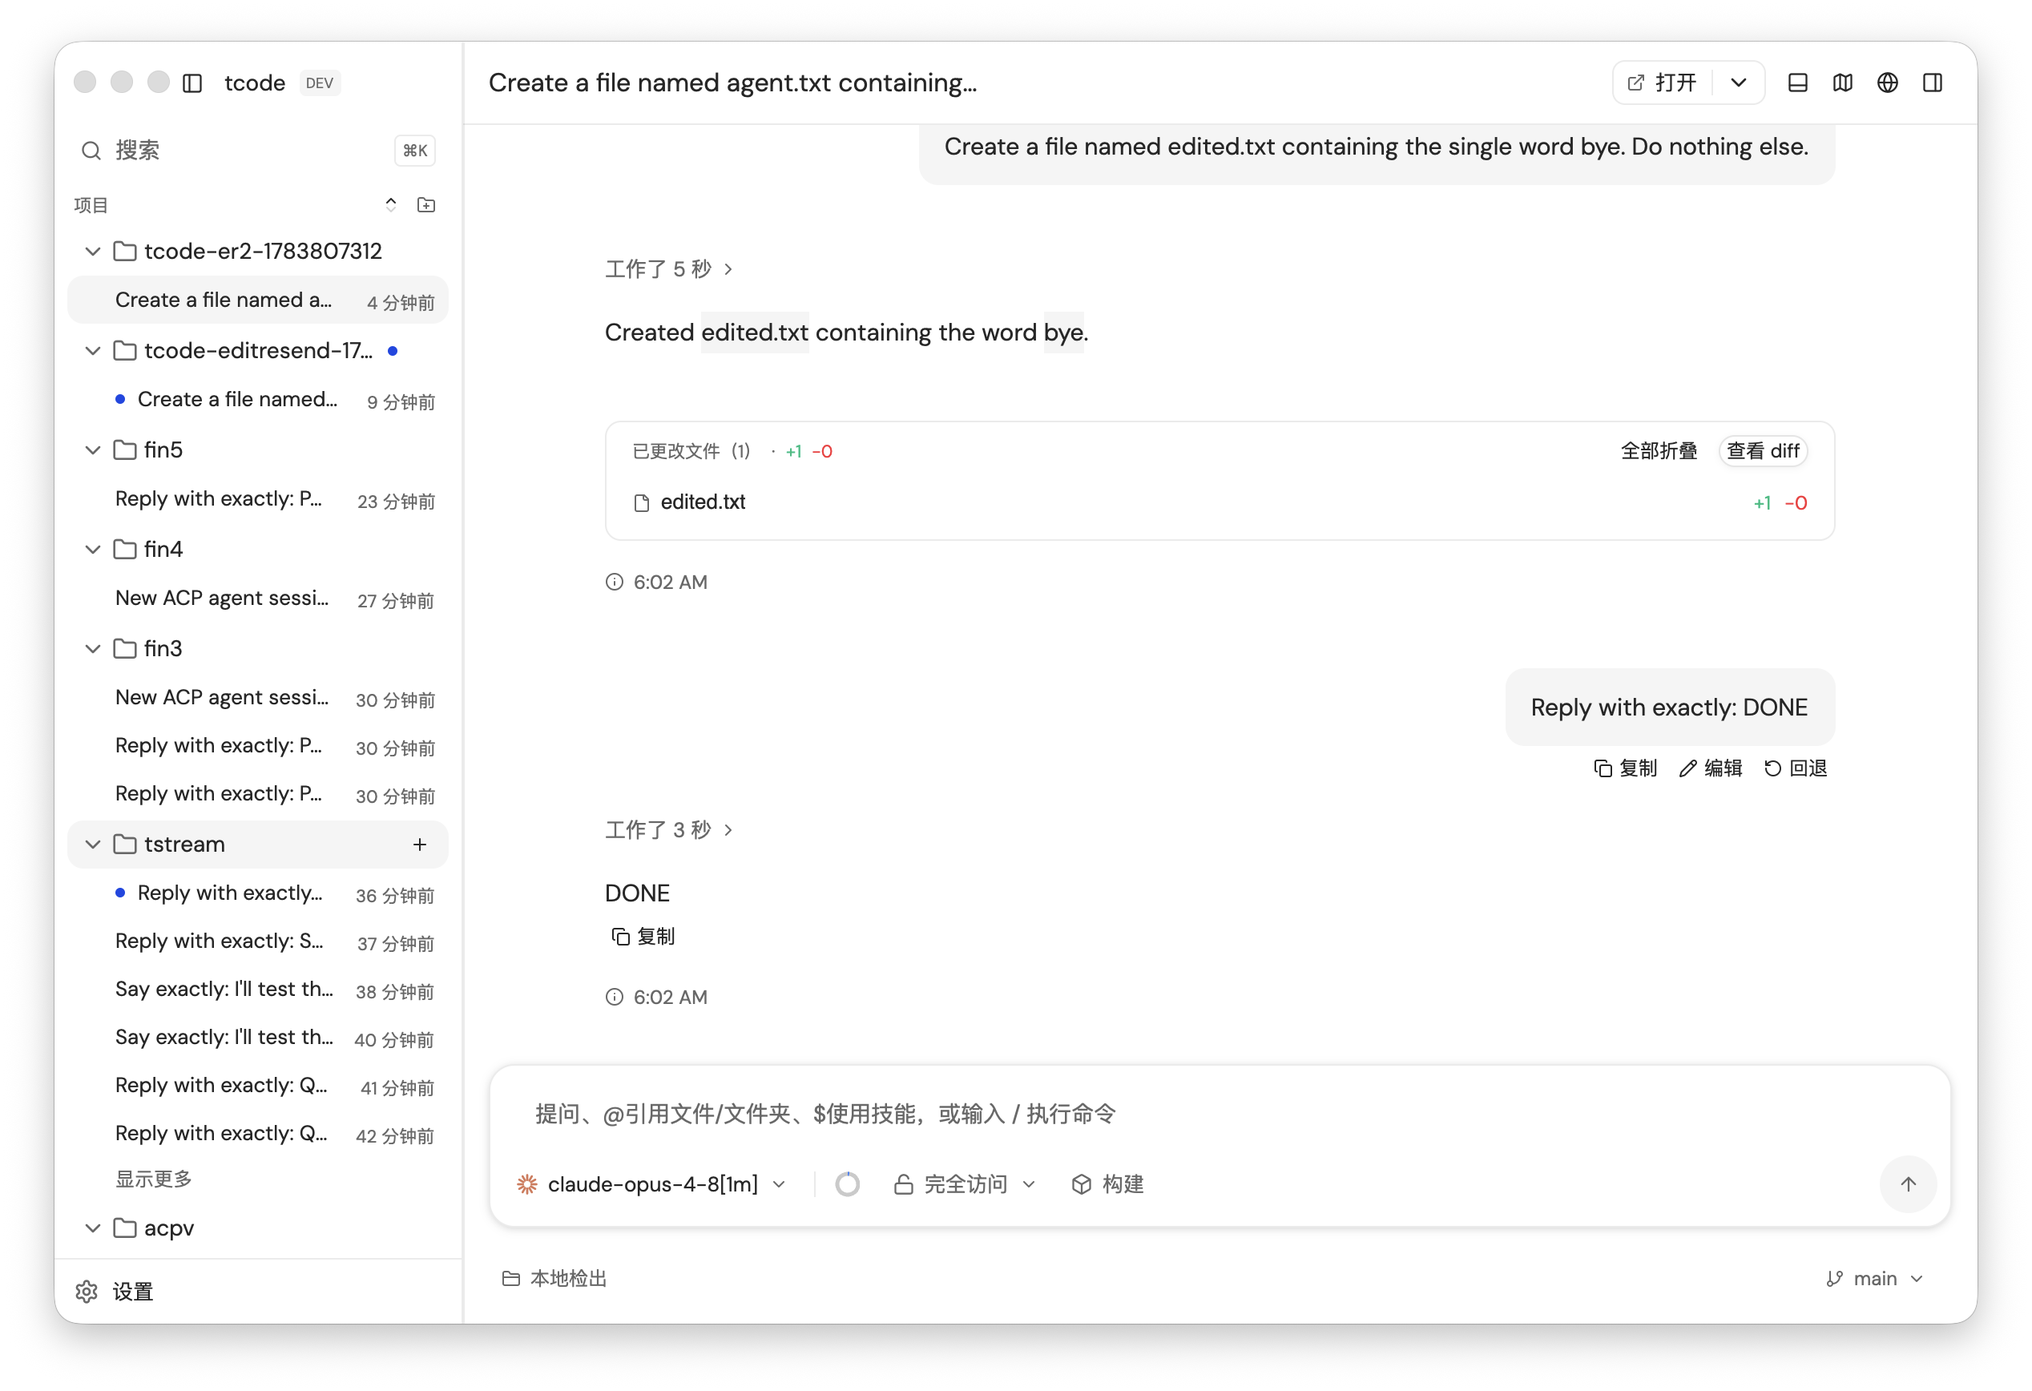
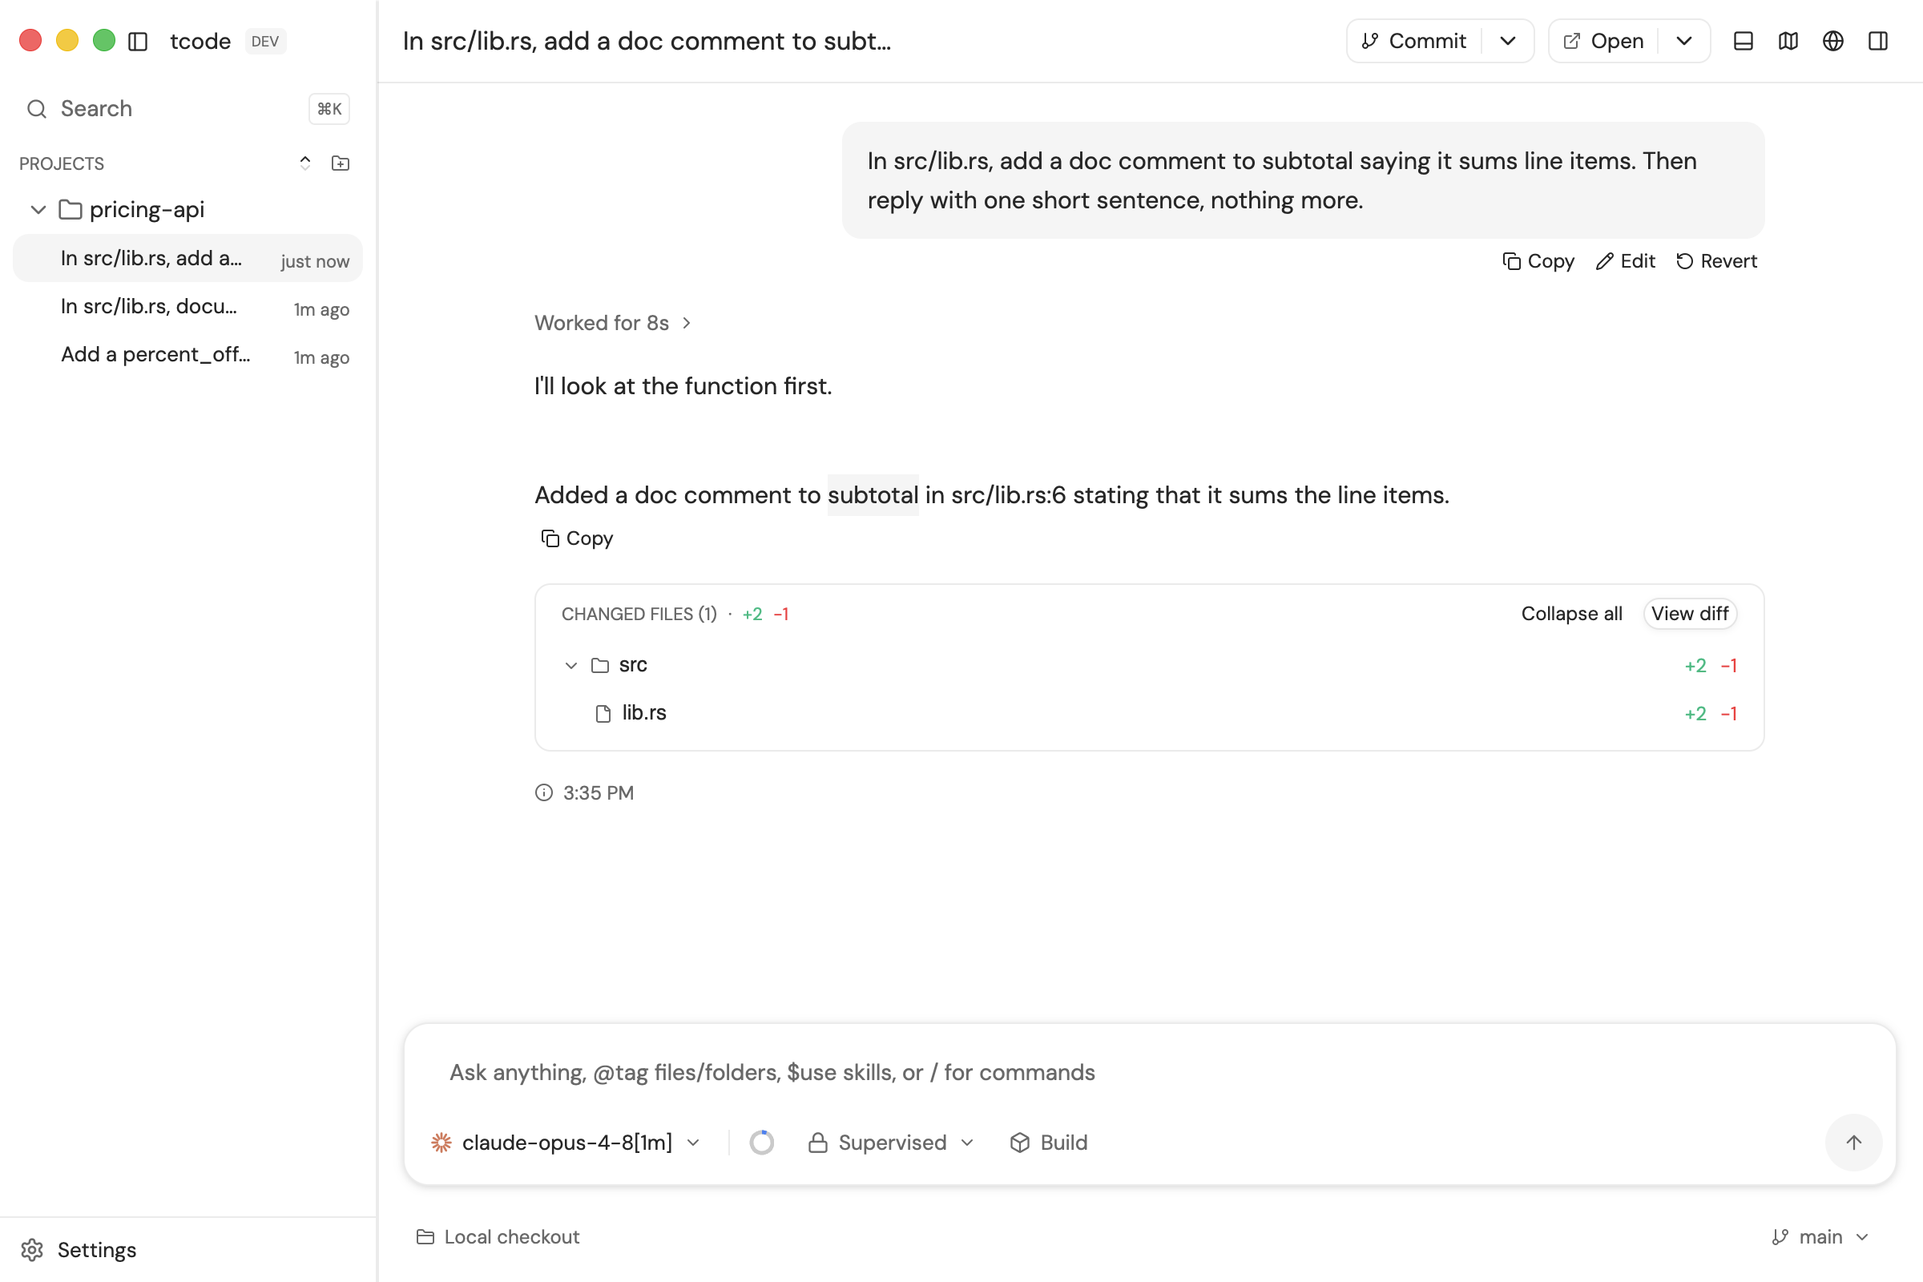
Fix duplicated assistant text and the clipped chat column; English screenshots
Three real defects, all found while recapturing the README screenshots.

The Claude CLI splits one message across several `assistant` lines, each carrying
a single-element `content` array — a redacted thinking block, then the text block.
Enumerating each array on its own numbered the text block 0, while its deltas had
streamed under index 1, so the paragraph rendered twice: once live, once again
from the completion. Completions now continue the stream's block numbering, and an
empty thinking block no longer blanks the reasoning the user just watched arrive.

The diff panel lived in a resizable group nested inside the chat panel, which does
not shrink the chat: the panel was simply painted over it, clipping the timeline
and composer mid-word (visible in the screenshots I shipped last time). Sidebar,
chat and right panel are now one flat group, so the chat reflows. Its width is
seeded explicitly because the group latches the first width it measures — a panel
that appears mid-session would otherwise open pinned to its 320px floor. The chat
title keeps a 120px floor so the narrow header does not collapse it to "I…".

Screenshots are retaken in English from a clean demo profile (a pricing-api repo,
three real Claude turns), which `TCODE_DATA_DIR` now makes possible. The README no
longer enumerates which languages ship — it just says the UI is localized.

diff --git a/src/ui/mod.rs b/src/ui/mod.rs
@@ -16,14 +16,17 @@ mod terminal_drawer;
 pub(crate) mod toast;
 mod workspace_walk;
 
+use std::cell::Cell;
+use std::rc::Rc;
+
 use gpui::{
     AnyElement, App, AppContext as _, Context, Div, ElementId, Entity, InteractiveElement as _,
-    IntoElement, MouseButton, MouseDownEvent, ParentElement as _, Render, Styled as _,
+    IntoElement, MouseButton, MouseDownEvent, ParentElement as _, Pixels, Render, Styled as _,
     Subscription, Window, actions, div, prelude::FluentBuilder as _, px,
 };
 use gpui_component::{
     ActiveTheme as _, Root, h_flex,
-    resizable::{h_resizable, resizable_panel},
+    resizable::{ResizableState, h_resizable, resizable_panel},
 };
 
 use chat::ChatView;
@@ -101,8 +104,23 @@ pub struct AppShell {
     /// Tracks the palette's open state across frames so it can be focused on the
     /// open transition.
     palette_was_open: bool,
+    /// The workspace split's state, owned here rather than left to the group's
+    /// internal state so the right panel can be given a real width when it
+    /// opens. A fresh panel's size starts at the group's 100px minimum and the
+    /// group latches the *first* width it measures — which, for a panel that
+    /// appears mid-session, is that minimum. Left alone, the diff panel opens
+    /// pinned to its 320px floor.
+    split: Entity<ResizableState>,
+    /// The width the right panel opens at: the default until the user drags a
+    /// handle, then whatever they chose (for this run).
+    right_width: Rc<Cell<Pixels>>,
+    /// Whether the open right panel has already been given its width.
+    right_sized: bool,
     _subscriptions: Vec<Subscription>,
 }
+
+/// The right panel's default width (`docs/DESIGN.md`).
+const RIGHT_PANEL_WIDTH: f32 = 560.;
 
 impl AppShell {
     pub fn new(app_state: Entity<AppState>, window: &mut Window, cx: &mut Context<Self>) -> Self {
@@ -157,6 +175,9 @@ impl AppShell {
             toasts,
             app_state,
             palette_was_open: false,
+            split: cx.new(|_| ResizableState::default()),
+            right_width: Rc::new(Cell::new(px(RIGHT_PANEL_WIDTH))),
+            right_sized: false,
             _subscriptions: vec![subscription],
         }
     }
@@ -217,36 +238,62 @@ impl Render for AppShell {
             }
         };
 
-        // The chat column: chat alone, chat split with the right panel, or the
-        // diff panel full-width when expanded.
-        let chat_region: AnyElement = if diff_open && diff_expanded {
-            div()
-                .size_full()
-                .min_w_0()
-                .child(right_panel(self))
-                .into_any_element()
-        } else if diff_open {
-            h_resizable("chat-diff-panels")
-                .child(resizable_panel().child(self.chat.clone()))
-                .child(
-                    resizable_panel()
-                        .size(px(560.))
-                        .size_range(px(320.)..px(1400.))
-                        .child(right_panel(self)),
-                )
-                .into_any_element()
+        // Sidebar | chat | right panel live in ONE resizable group. Nesting a
+        // second group inside the chat panel does not shrink the chat: it keeps
+        // its full width and the right panel is painted over it, clipping the
+        // timeline and the composer mid-word. A flat group makes the chat a real
+        // flex sibling of the right panel, so it reflows — the guarantee
+        // `docs/DESIGN.md` makes for the chat column.
+        let chat_visible = !(diff_open && diff_expanded);
+        // The right panel is the last of three panels (sidebar · chat · right),
+        // and the sidebar is only a panel when it is expanded.
+        let right_ix = if collapsed { 1 } else { 2 };
+
+        // Give the right panel its width once the group knows about it (the
+        // panel count is synced while the group renders, so this lands on the
+        // frame after it opens — the group notifies, so that frame comes).
+        if diff_open && chat_visible {
+            if !self.right_sized {
+                let width = self.right_width.get();
+                let sized = self.split.update(cx, |state, cx| {
+                    if state.sizes().len() > right_ix {
+                        state.resize_panel(right_ix, width, window, cx);
+                        true
+                    } else {
+                        false
+                    }
+                });
+                self.right_sized = sized;
+            }
         } else {
-            div()
-                .size_full()
-                .min_w_0()
-                .child(self.chat.clone())
-                .into_any_element()
+            self.right_sized = false;
+        }
+
+        let chat_panel = resizable_panel()
+            .visible(chat_visible)
+            .child(self.chat.clone());
+        let right = resizable_panel()
+            .visible(diff_open)
+            .size(px(RIGHT_PANEL_WIDTH))
+            .size_range(px(320.)..px(1400.))
+            .child(right_panel(self));
+
+        // Remember a dragged width so re-opening the panel restores it.
+        let remembered = self.right_width.clone();
+        let group = |id: &'static str| {
+            h_resizable(id)
+                .with_state(&self.split)
+                .on_resize(move |state, _, cx| {
+                    if let Some(size) = state.read(cx).sizes().get(right_ix) {
+                        remembered.set(*size);
+                    }
+                })
         };
 
         let workspace: AnyElement = if collapsed {
-            // `h_flex` centers its children on the cross axis, so both columns
-            // need an explicit full height — without it the icon strip and the
-            // whole chat column float vertically centered in the window.
+            // `h_flex` centers its children on the cross axis, so the icon strip
+            // needs an explicit full height — without it it (and the whole chat
+            // column) float vertically centered in the window.
             h_flex()
                 .size_full()
                 .child(
@@ -256,10 +303,10 @@ impl Render for AppShell {
                         .h_full()
                         .child(self.sidebar.clone()),
                 )
-                .child(div().flex_1().min_w_0().h_full().child(chat_region))
+                .child(group("chat-diff-panels").child(chat_panel).child(right))
                 .into_any_element()
         } else {
-            h_resizable("workspace-panels")
+            group("workspace-panels")
                 .child(
                     resizable_panel()
                         .flex_none()
@@ -267,7 +314,8 @@ impl Render for AppShell {
                         .size_range(px(220.)..px(380.))
                         .child(self.sidebar.clone()),
                 )
-                .child(resizable_panel().child(chat_region))
+                .child(chat_panel)
+                .child(right)
                 .into_any_element()
         };
 

diff --git a/crates/agent/src/claude.rs b/crates/agent/src/claude.rs
@@ -611,6 +611,14 @@ struct PendingApproval {
 pub(crate) struct Mapper {
     session_started: bool,
     current_message_id: Option<String>,
+    /// How many content blocks of each streamed message we have already seen in
+    /// an `assistant` line. The CLI splits one message across several `assistant`
+    /// lines — one per block, each carrying a *one-element* `content` array — so
+    /// enumerating that array gives 0 every time, while the `content_block_delta`
+    /// stream numbers the blocks 0, 1, 2… The completed item has to reuse the
+    /// stream's numbering or the timeline shows the same text twice: once from
+    /// the deltas (`msg:1`) and once from the completion (`msg:0`).
+    assistant_blocks_seen: HashMap<String, usize>,
     turn_counter: usize,
     current_turn_id: Option<String>,
     control_counter: usize,
@@ -650,6 +658,7 @@ impl Mapper {
         Mapper {
             session_started: false,
             current_message_id: None,
+            assistant_blocks_seen: HashMap::new(),
             turn_counter: 0,
             current_turn_id: None,
             control_counter: 0,
@@ -981,8 +990,18 @@ impl Mapper {
             Some(c) => c,
             None => return Vec::new(),
         };
+        // Continue the stream's block numbering across the CLI's split
+        // `assistant` lines (see `assistant_blocks_seen`).
+        let seen = self
+            .assistant_blocks_seen
+            .entry(msg_id.clone())
+            .or_default();
+        let first_index = *seen;
+        *seen += content.len();
+
         let mut out = Vec::new();
-        for (index, block) in content.iter().enumerate() {
+        for (offset, block) in content.iter().enumerate() {
+            let index = first_index + offset;
             match block.get("type").and_then(Value::as_str) {
                 Some("text") => {
                     let text = block.get("text").and_then(Value::as_str).unwrap_or("");
@@ -999,12 +1018,17 @@ impl Mapper {
                         .and_then(Value::as_str)
                         .or_else(|| block.get("text").and_then(Value::as_str))
                         .unwrap_or("");
-                    out.push(AgentEvent::ItemCompleted(ThreadItem {
-                        id: format!("{msg_id}:{index}"),
-                        content: ItemContent::Reasoning {
-                            text: text.to_string(),
-                        },
-                    }));
+                    // The CLI redacts thinking content in this line even when it
+                    // streamed the deltas; completing with "" would blank the
+                    // reasoning the user just watched arrive.
+                    if !text.is_empty() {
+                        out.push(AgentEvent::ItemCompleted(ThreadItem {
+                            id: format!("{msg_id}:{index}"),
+                            content: ItemContent::Reasoning {
+                                text: text.to_string(),
+                            },
+                        }));
+                    }
                 }
                 Some("tool_use") => {
                     out.extend(self.on_tool_use(block));
@@ -1287,6 +1311,8 @@ impl Mapper {
             .current_turn_id
             .take()
             .unwrap_or_else(|| format!("turn-{}", self.turn_counter.max(1)));
+        // No message outlives its turn, so the block counters can go.
+        self.assistant_blocks_seen.clear();
         let mut status = result_status(msg);
         if std::mem::take(&mut self.interrupt_pending) && status != TurnStatus::Completed {
             status = TurnStatus::Interrupted;
@@ -2348,6 +2374,56 @@ mod tests {
                 assert_eq!(text, "hmm");
             }
             other => panic!("expected reasoning Delta, got {other:?}"),
+        }
+    }
+
+    /// Captured from a real session: the CLI splits one message across several
+    /// `assistant` lines, each carrying a single-element `content` array — a
+    /// (redacted, empty) thinking block first, then the text block. Enumerating
+    /// each array on its own numbered the text block 0 while its deltas streamed
+    /// under index 1, so the timeline rendered the paragraph twice: once live,
+    /// once again from the completion. The completed item must land on the
+    /// stream's id, and the empty thinking block must not become an item at all.
+    #[test]
+    fn split_assistant_lines_keep_the_streams_block_numbering() {
+        let mut m = Mapper::new();
+        feed(
+            &mut m,
+            r#"{"type":"stream_event","event":{"type":"message_start","message":{"id":"msg_s"}}}"#,
+        );
+        let streamed = feed(
+            &mut m,
+            r#"{"type":"stream_event","event":{"type":"content_block_delta","index":1,"delta":{"type":"text_delta","text":"Added percent_off."}}}"#,
+        );
+        let streamed_id = match &streamed[0] {
+            AgentEvent::Delta { item_id, .. } => item_id.clone(),
+            other => panic!("expected Delta, got {other:?}"),
+        };
+        assert_eq!(streamed_id, "msg_s:1");
+
+        // First `assistant` line: the thinking block alone, with no content.
+        let thinking = feed(
+            &mut m,
+            r#"{"type":"assistant","message":{"id":"msg_s","content":[{"type":"thinking","thinking":""}]}}"#,
+        );
+        assert!(
+            thinking.is_empty(),
+            "an empty thinking block must not blank the streamed reasoning: {thinking:?}"
+        );
+
+        // Second `assistant` line: the text block, which the stream called 1.
+        let completed = feed(
+            &mut m,
+            r#"{"type":"assistant","message":{"id":"msg_s","content":[{"type":"text","text":"Added percent_off."}]}}"#,
+        );
+        match &completed[0] {
+            AgentEvent::ItemCompleted(item) => {
+                assert_eq!(
+                    item.id, streamed_id,
+                    "completion must reuse the streamed item id, or the text renders twice"
+                );
+            }
+            other => panic!("expected ItemCompleted, got {other:?}"),
         }
     }
 

diff --git a/src/store.rs b/src/store.rs
@@ -215,11 +215,16 @@ pub struct SessionStore {
 }
 
 impl SessionStore {
-    /// Open (creating if needed) the store under the platform data dir.
+    /// Open (creating if needed) the store under the platform data dir, or under
+    /// `TCODE_DATA_DIR` when it is set — which gives a throwaway profile (its own
+    /// sessions, settings and installed ACP agents) for demos and screenshots.
     pub fn open_default() -> std::io::Result<Self> {
-        let root = dirs::data_dir()
-            .unwrap_or_else(|| PathBuf::from("."))
-            .join("tcode");
+        let root = match std::env::var_os("TCODE_DATA_DIR") {
+            Some(dir) => PathBuf::from(dir),
+            None => dirs::data_dir()
+                .unwrap_or_else(|| PathBuf::from("."))
+                .join("tcode"),
+        };
         Self::open_at(root)
     }
 

diff --git a/src/ui/chat.rs b/src/ui/chat.rs
@@ -1324,7 +1324,10 @@ impl ChatView {
             match &title {
                 Some(title) => div()
                     .flex_1()
-                    .min_w_0()
+                    // Keep a few words of the title even when the diff panel and
+                    // the git/Open buttons squeeze the header; without a floor it
+                    // collapses to a lone "I…".
+                    .min_w(px(120.))
                     .overflow_hidden()
                     .text_ellipsis()
                     .text_size(px(16.))

diff --git a/docs/DESIGN.md b/docs/DESIGN.md
@@ -140,7 +140,12 @@ expandable detail (command text / file list), actions Deny / Always allow /
 Approve (primary).
 
 ### Diff panel
-Right resizable split (default 560px, min 320px): tab strip ("Diff" + "+"
+Right resizable split (default 560px, min 320px). Sidebar · chat · right panel
+are **one** resizable group: nesting a second group inside the chat panel does not
+shrink the chat — the right panel is painted over it and the timeline and composer
+are clipped mid-word. The chat column reflows; it never clips.
+
+Details: tab strip ("Diff" + "+"
 no-op) with expand/close cluster; toolbar "Turn N ⌄" selector + wrap toggle
 (+ no-op split/whitespace/¶ icons); body per file: header row (icon, relative
 path, "new" badge for creates, +N/-M) then unified diff: dual line-number

diff --git a/README.md b/README.md
@@ -118,9 +118,9 @@ the marketplace once tcode is running.
 **3. Add a project and start a thread.** Point tcode at a directory, type, send.
 No API keys, no config file.
 
-The interface follows your system language (English and Simplified Chinese,
-switchable in Settings). Everything tcode stores — sessions, settings, installed
-ACP agents — lives under your platform's app-data directory.
+The interface is localized and follows your system language; you can override it
+in Settings. Everything tcode stores — sessions, settings, installed ACP agents —
+lives under your platform's app-data directory.
 
 <div align="center">
 <img src="docs/images/chat-dark.png" width="840" alt="tcode in dark mode">

diff --git a/CONTRIBUTING.md b/CONTRIBUTING.md
@@ -78,6 +78,10 @@ cargo run -p agent --example image_probe -- claude /tmp/blue.png \
     "What color is this image? Reply with just the color." /tmp/smoke
 ```
 
+`TCODE_DATA_DIR` points tcode at a throwaway profile (its own sessions, settings
+and installed ACP agents) — useful for demos, screenshots and trying a change
+without touching your real threads.
+
 **Launch flags** for driving surfaces that need a running app:
 `--open-latest`, `--open-diff`, `--open-settings`, `--open-palette`,
 `--open-draft <project>`; and for screenshots, `--debug-compose <text>`,
